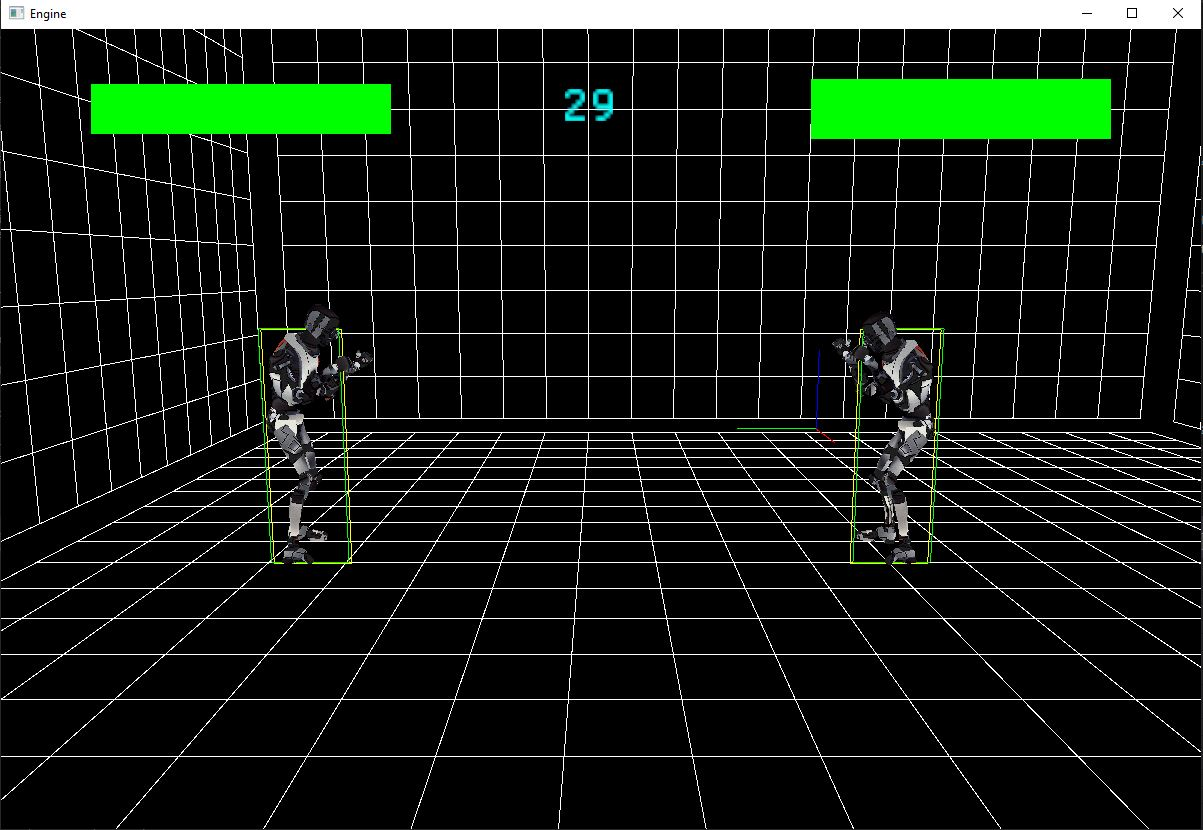
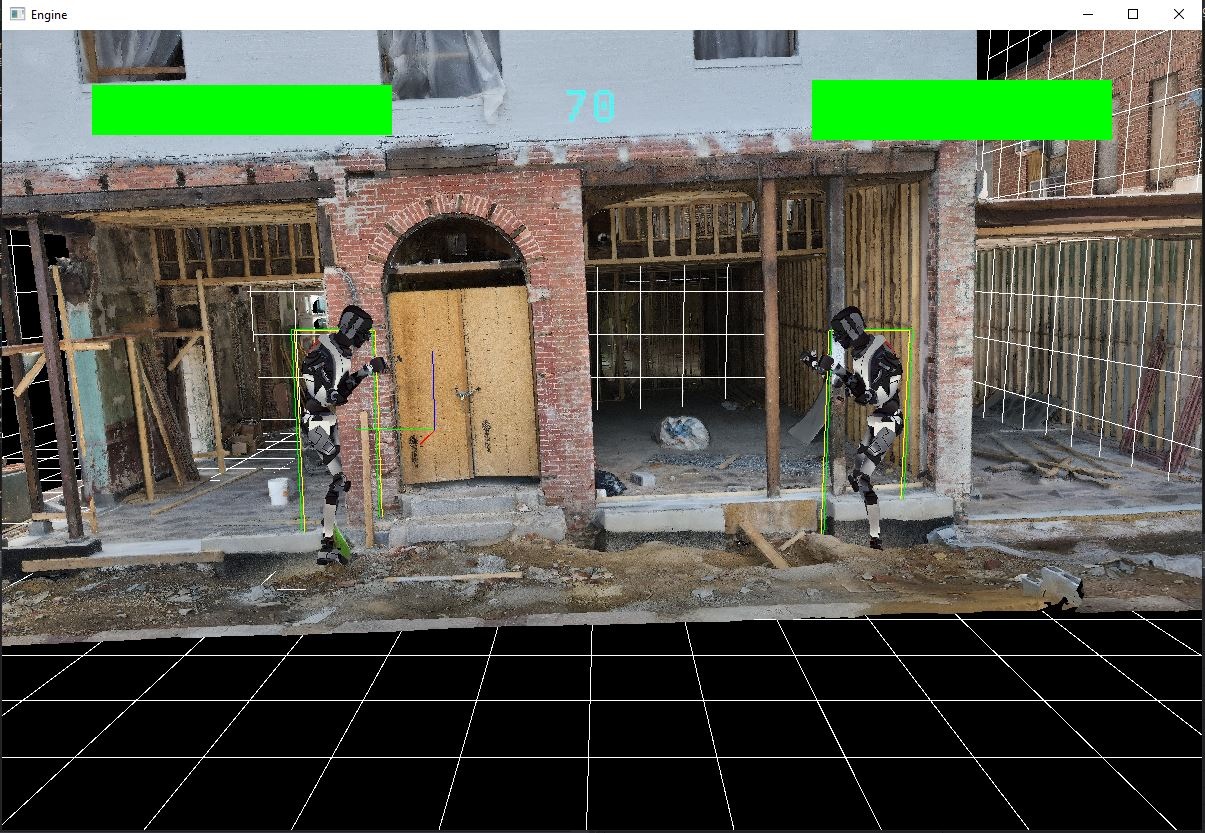
Added some images and in game background

diff --git a/GameEngine/Engine/ResourceManager.cpp b/GameEngine/Engine/ResourceManager.cpp
@@ -9,7 +9,6 @@
 #include <glm/gtc/type_ptr.hpp>
 #include <assert.h>
 #include <stb_image.h>
-#include <ktx.h>
 
 #define TINYOBJLOADER_IMPLEMENTATION
 #include <tiny_obj_loader.h>
@@ -92,18 +91,28 @@ ModelReturnVals& ResourceManager::loadObjFile(const std::string& filePath) {
 					attrib.vertices[3 * index.vertex_index + 2]
 				};
 
-				vertex.texCoord = {
-					attrib.texcoords[2 * index.texcoord_index + 0],
-					1.0f - attrib.texcoords[2 * index.texcoord_index + 1]
-				};
+				if (index.texcoord_index != -1)//obj might not have tex coords
+				{
+					vertex.texCoord = {
+						attrib.texcoords[2 * index.texcoord_index + 0],
+						1.0f - attrib.texcoords[2 * index.texcoord_index + 1]
+					};
+				}
 
-				vertex.normal = {
-					attrib.normals[3 * index.normal_index + 0],
-					attrib.normals[3 * index.normal_index + 1],
-					attrib.normals[3 * index.normal_index + 2]
+				if (index.normal_index != -1) //obj might not have a normals
+				{
+					vertex.normal = {
+						attrib.normals[3 * index.normal_index + 0],
+						attrib.normals[3 * index.normal_index + 1],
+						attrib.normals[3 * index.normal_index + 2]
+					};
+				}
+				
+				vertex.color = {
+					attrib.colors[3 * index.vertex_index + 0],
+					attrib.colors[3 * index.vertex_index + 1],
+					attrib.colors[3 * index.vertex_index + 2]
 				};
-
-				vertex.color = { 1.0f, 1.0f, 1.0f };
 
 				if (uniqueVertices.count(vertex) == 0) {
 					uniqueVertices[vertex] = static_cast<uint32_t>(vertices.size());
@@ -415,37 +424,14 @@ TextureReturnVals& ResourceManager::loadTextureFile(const std::string& filePath)
 	{
 		int texWidth, texHeight, texChannels;
 		unsigned char* pixels;
-		if (filePath.find(".ktx") != std::string::npos)
-		{
-			ktxTexture* texture;
-			KTX_error_code result;
-			result = ktxTexture_CreateFromNamedFile(filePath.c_str(), KTX_TEXTURE_CREATE_LOAD_IMAGE_DATA_BIT, &texture);
-			assert(result == KTX_SUCCESS);
-			texWidth = texture->baseWidth;
-			texHeight = texture->baseHeight;
-			texChannels = texture->numLevels;
-
-			//ktx_size_t offset;
-			//result = ktxTexture_GetImageOffset(texture, 0, 0, 0, &offset);
-			//assert(result == KTX_SUCCESS);
-			pixels = ktxTexture_GetData(texture);
-			ktx_size_t size = ktxTexture_GetDataSize(texture);
-
-			returnVals = new TextureReturnVals(pixels, texWidth, texHeight, texChannels);
-
-			ktxTexture_Destroy(texture);
+		pixels = stbi_load(filePath.c_str(), &texWidth, &texHeight, &texChannels, STBI_rgb_alpha);
+		if (!pixels) {
+			std::cout << "invalid texture path" << std::endl;
+			assert(1 == 0);
 		}
-		else
-		{
-			pixels = stbi_load(filePath.c_str(), &texWidth, &texHeight, &texChannels, STBI_rgb_alpha);
-			if (!pixels) {
-				std::cout << "invalid texture path" << std::endl;
-				assert(1 == 0);
-			}
-			returnVals = new TextureReturnVals(pixels, texWidth, texHeight, texChannels);
+		returnVals = new TextureReturnVals(pixels, texWidth, texHeight, texChannels);
 
-			stbi_image_free(pixels);
-		}
+		stbi_image_free(pixels);
 	
 		m_resourceRegistry[filePath] = reinterpret_cast<uintptr_t>(returnVals);
 	}

diff --git a/FightingGameClient/Game/GameBase.cpp b/FightingGameClient/Game/GameBase.cpp
@@ -33,6 +33,7 @@ void GameBase::initScene()
 	const glm::vec3 STARTING_POSITION_RIGHT = { 0.0f, 5.0f, 1.0f };
 	const glm::vec3 STARTING_POSITION_LEFT =  {0.0f, -5.0f, 1.0f};
 
+	//TODO: add UI interface to select files without having to hardcode it
 	const std::string fighterFilePath1 = "C:\\Users\\jsngw\\source\\repos\\FightingGame\\FighterFiles\\Attack.fgAnim"; //set path to fighter 1 here
 	const std::string fighterFilePath2 = "C:\\Users\\jsngw\\source\\repos\\FightingGame\\FighterFiles\\Attack.fgAnim"; //set path to fighter 2 here
 
@@ -57,25 +58,22 @@ void GameBase::initScene()
 	const float ARENA_DEPTH = 21;
 	arena_ = { ARENA_WIDTH, ARENA_DEPTH, ARENA_STARTING_POINT };
 
-	//generateArenaBackground();
+	generateArenaBackground();
 }
 
 void GameBase::generateArenaBackground()
 {
-	const glm::vec3 ARENA_STARTING_POINT =  {0.0, 0.0, -1.75f};
-	const float ARENA_WIDTH = 21;
-	const float ARENA_DEPTH = 21;
+	const glm::vec3 BACKGROUND_POS = { 16.0f, 11.0f, -1.5f };//set position of background here
 	
-	const std::string arenaBackground = "./Models/viking_room.obj";
-	const std::string arenaBackgroundTexturePath = "./Textures/viking_room.png";
+	const std::string arenaBackground = "./Models/WaverlyTownHall-02_1mil_meters_sf.obj";
+	const std::string arenaBackgroundTexturePath = "./Textures/WaverlyTownHall-02_1mil_meters_sf.jpg";
 
 	arena_.backgroundEntity = scene_->addEntity("ArenaBackground");
 	const ModelReturnVals& backgroundModelData = resourceManager_->loadObjFile(arenaBackground);
 	const TextureReturnVals& textureReturnVals = resourceManager_->loadTextureFile(arenaBackgroundTexturePath);
 	arena_.backgroundEntity->addComponent<Renderable>(backgroundModelData.vertices, backgroundModelData.indices, false, "ArenaBackground");
 	arena_.backgroundEntity->addComponent<Textured>(textureReturnVals.pixels, textureReturnVals.textureWidth, textureReturnVals.textureHeight, textureReturnVals.textureChannels, "ArenaBackground");
-	Transform& arenaTransform = arena_.backgroundEntity->addComponent<Transform>(-10.0f, 0.0f, -1.5f);
-	arenaTransform.scale_ = { 15.0f, 15.0f, 15.0f };
+	Transform& arenaTransform = arena_.backgroundEntity->addComponent<Transform>(BACKGROUND_POS.x, BACKGROUND_POS.y, BACKGROUND_POS.z);
 }
 
 void GameBase::handleMouseClick(Events::MousePressedEvent& e)
